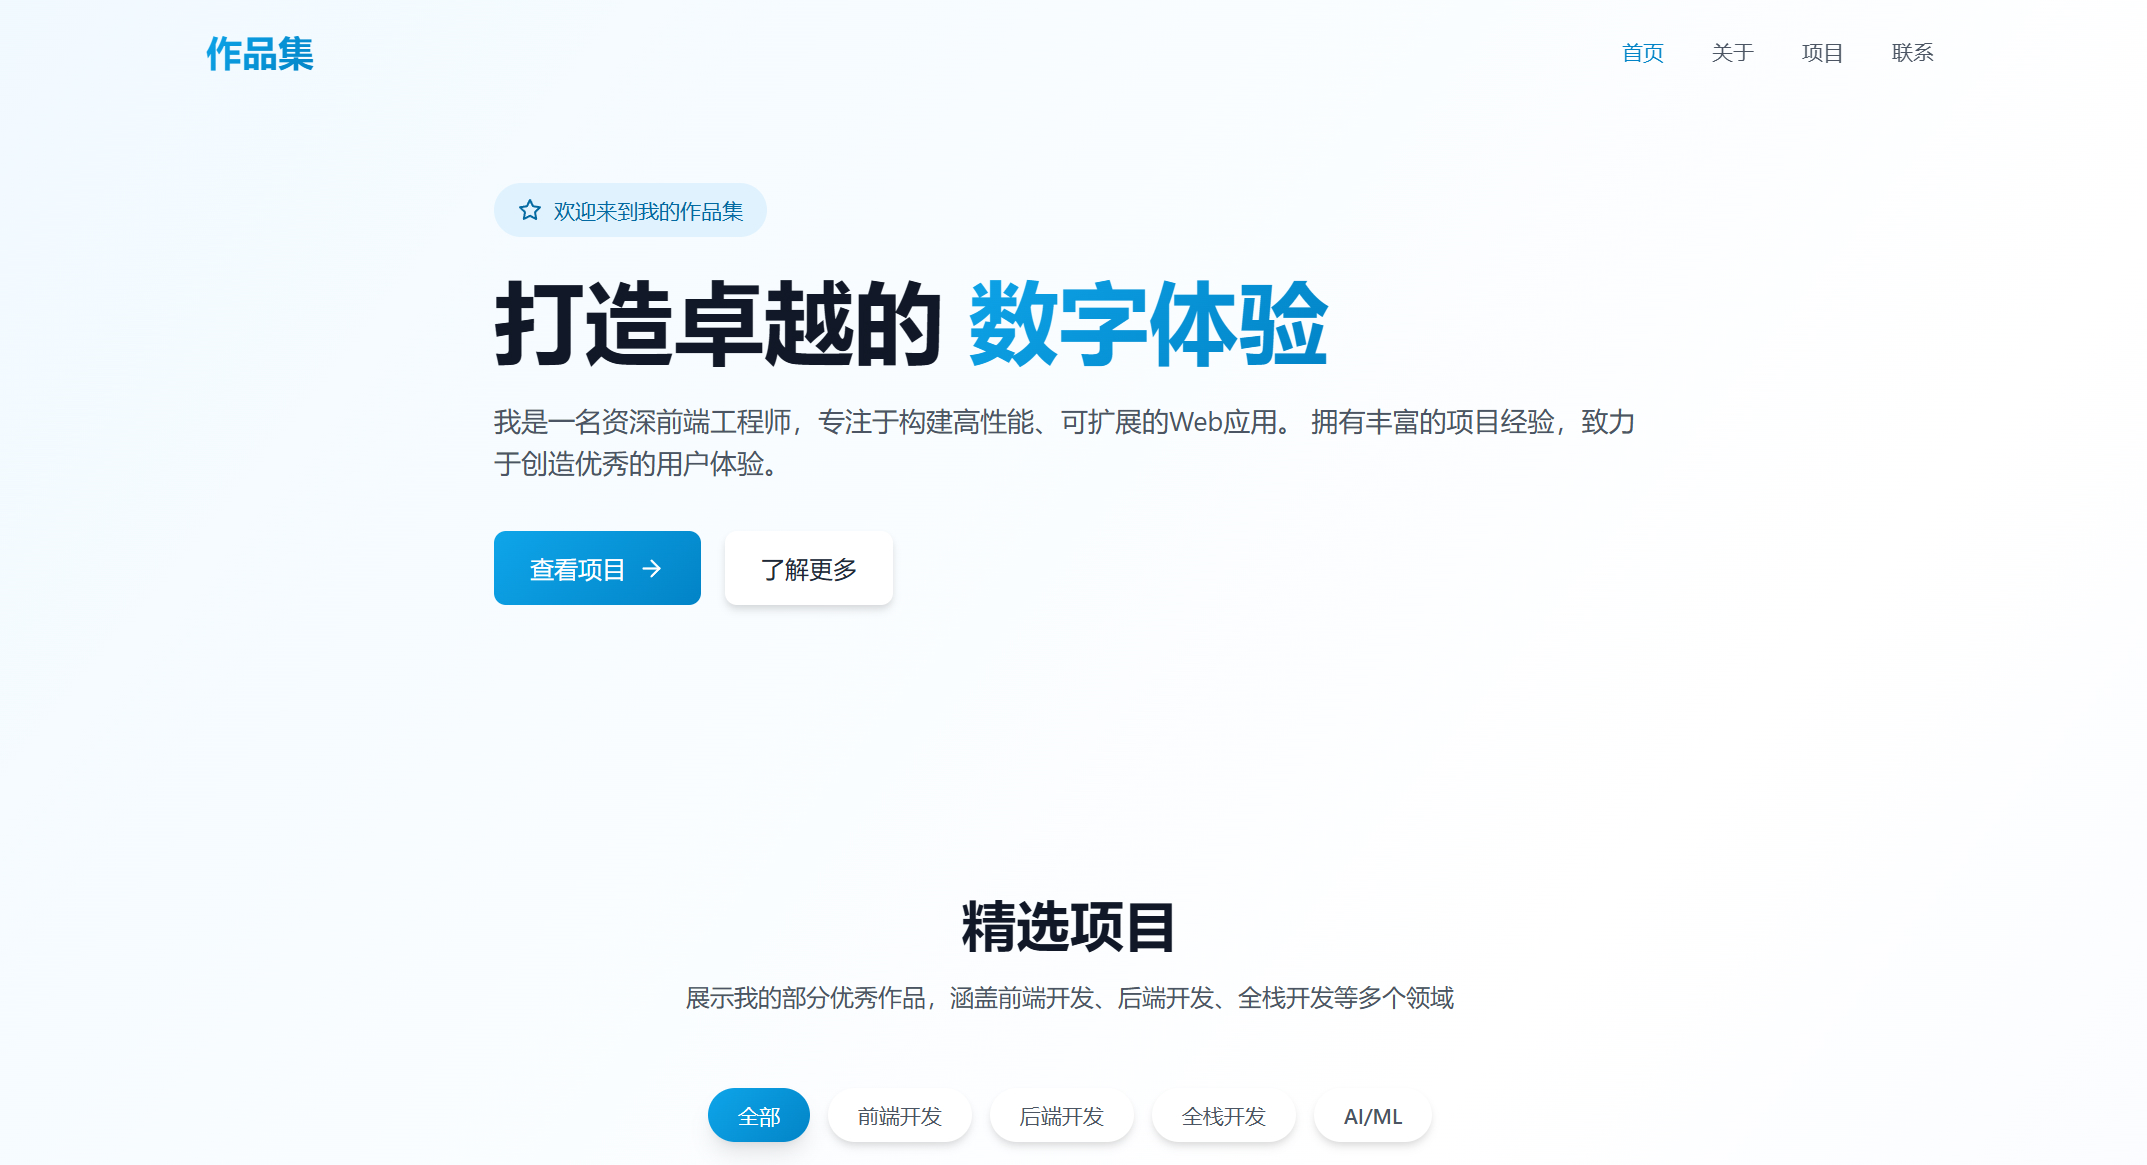
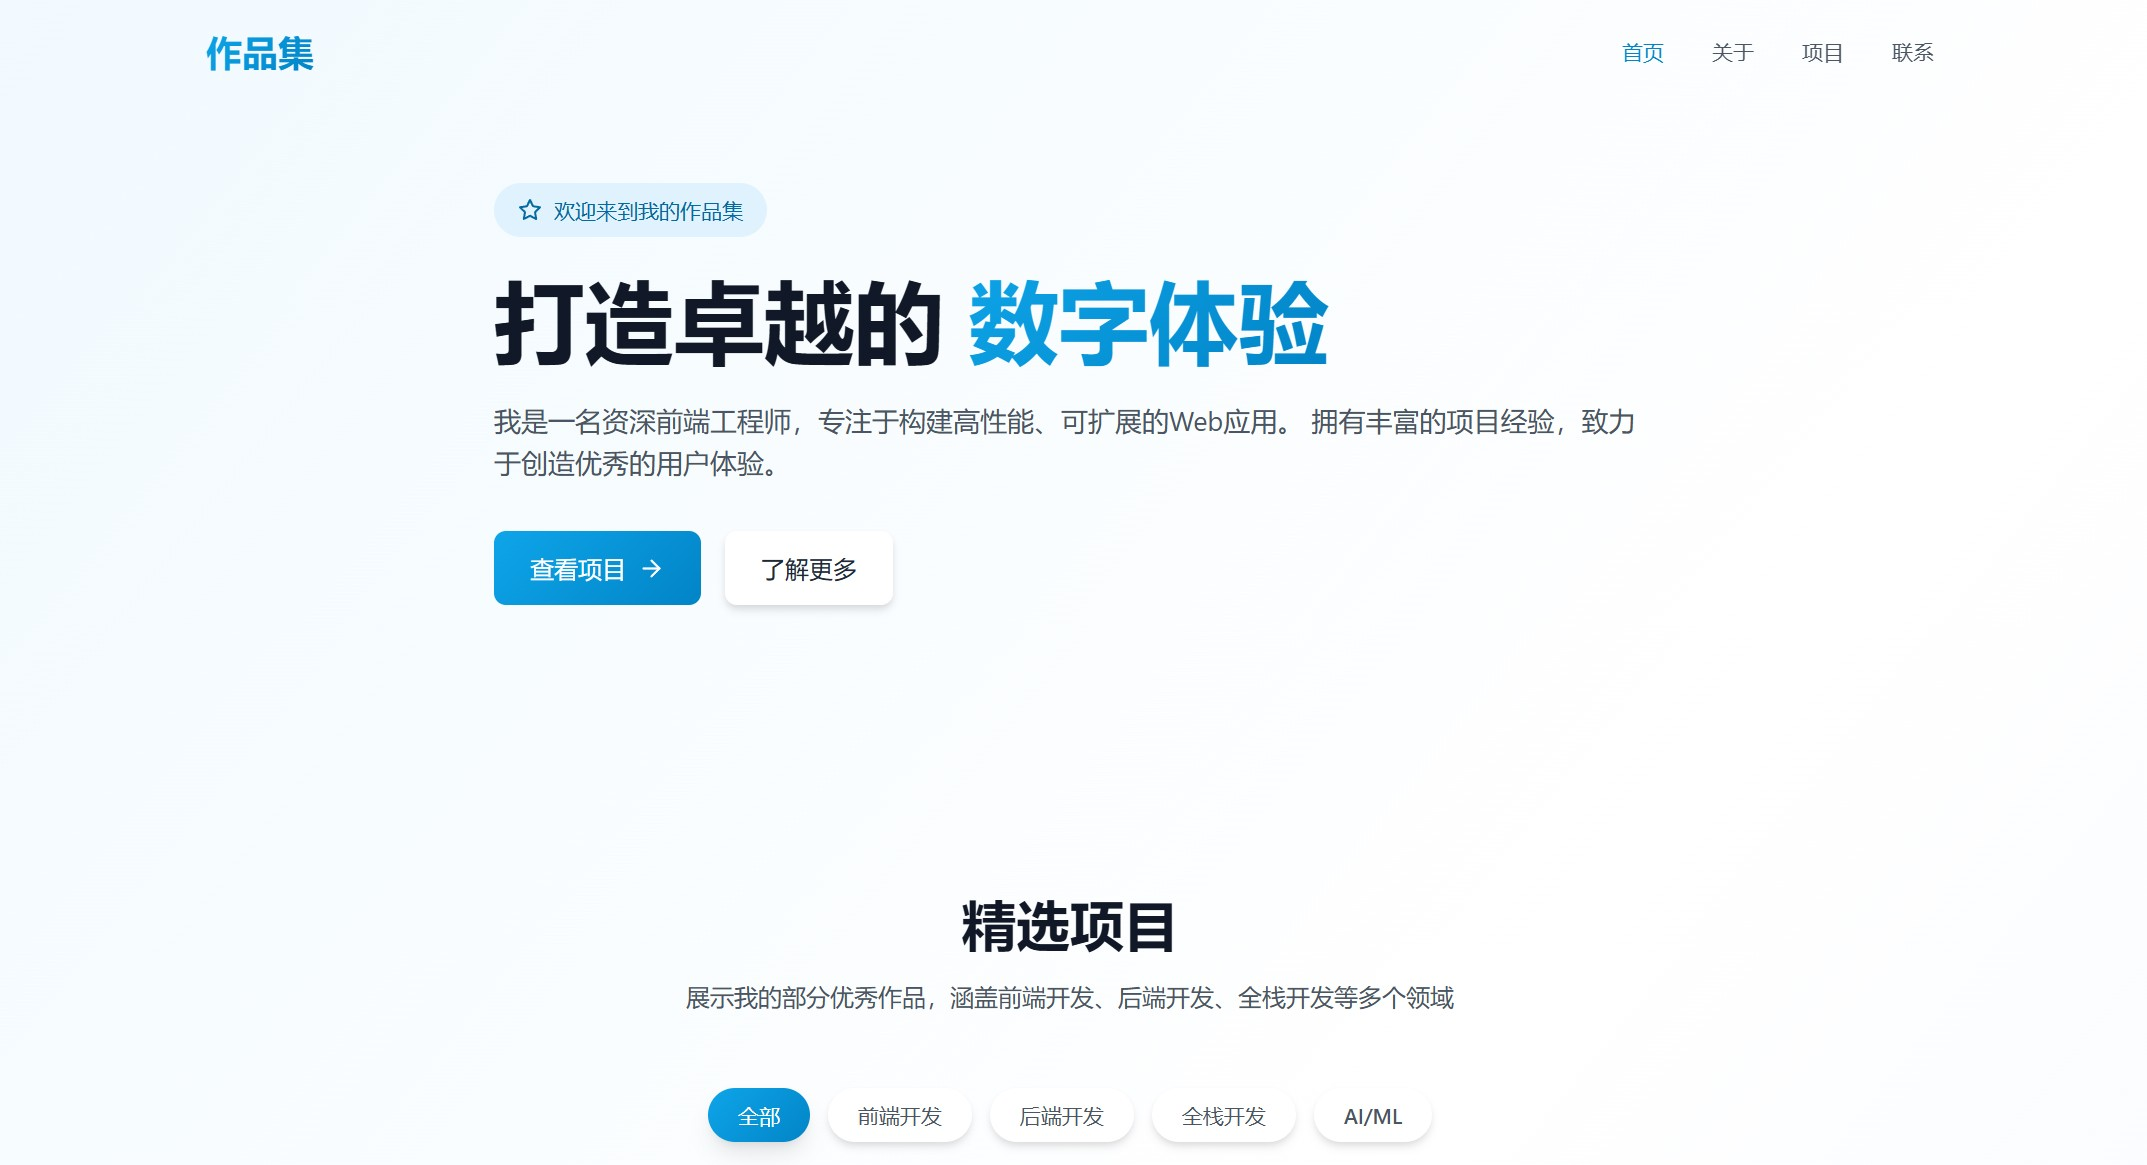
Updates

diff --git a/index.html b/index.html
@@ -5,7 +5,7 @@
     <link rel="icon" type="image/svg+xml" href="/portfolio/favicon.svg" />
     <meta name="viewport" content="width=device-width, initial-scale=1.0" />
     <title>个人作品集</title>
-    <script type="module" crossorigin src="/portfolio/assets/index-B8qoNDXi.js"></script>
+    <script type="module" crossorigin src="/portfolio/assets/index-BTZaoJ-B.js"></script>
     <link rel="stylesheet" crossorigin href="/portfolio/assets/index-Hdjg0axJ.css">
   </head>
   <body>